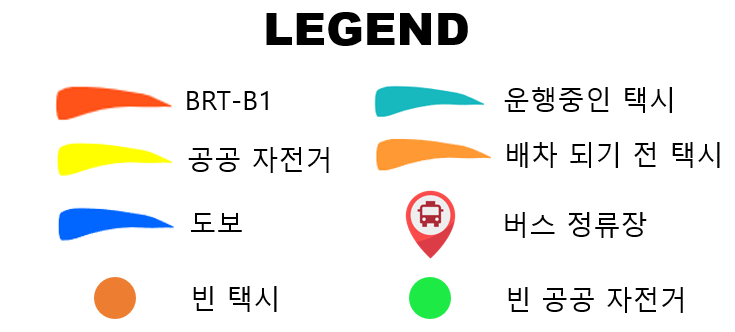
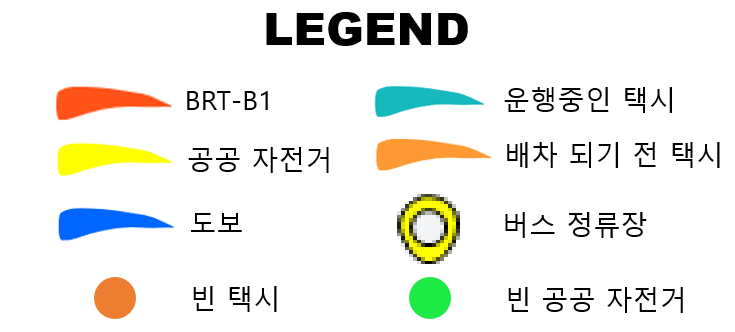
update busstop marker

Changed region(s): [[0.5388, 0.5723, 0.6286, 0.8133]]

diff --git a/src/components/Trip.js b/src/components/Trip.js
@@ -5,7 +5,6 @@ import { TripsLayer } from '@deck.gl/geo-layers';
 import { PathLayer, ScatterplotLayer, IconLayer, PolygonLayer } from '@deck.gl/layers';
 import DeckGL from '@deck.gl/react';
 import '../css/trip.css';
-import BusStopPNG from '../image/bus-stop.png';
 import legend from '../image/legend.png';
 
 const ambientLight = new AmbientLight({
@@ -102,8 +101,7 @@ const getBusStopWaiting = (bus_stop, data, time) => {
 }
 
 const ICON_MAPPING = {
-  marker1: {x: 0, y: 0, width: 512, height: 512, mask: true},
-  marker2: {x: 0, y: 0, width: 512, height: 512, mask: false}
+  marker: {x: 0, y: 0, width: 128, height: 128, mask: true},
 };
 
 const Trip = (props) => {
@@ -222,15 +220,15 @@ const Trip = (props) => {
       id: 'bus-stop',
       data: BusStopTotal,
       pickable: false,
-      iconAtlas: BusStopPNG,
+      iconAtlas: 'https://raw.githubusercontent.com/visgl/deck.gl-data/master/website/icon-atlas.png',
       iconMapping: ICON_MAPPING,
-      sizeMinPixels: 20,
+      sizeMinPixels: 10,
       sizeMaxPixels: 20,
       sizeScale: 5,
-      getIcon: d => d[2] > 0 ? 'marker1' : 'marker2',
+      getIcon: d => 'marker',
       getPosition: d => [d[0], d[1]],
-      getSize: d => 10,
-      getColor: d => [255, 255, 0]
+      getSize: d => 7,
+      getColor: d => d[2] > 0 ? [255, 255, 0] : [255, 0, 0]
     }),
     new ScatterplotLayer({
       id: 'taxi-location',
